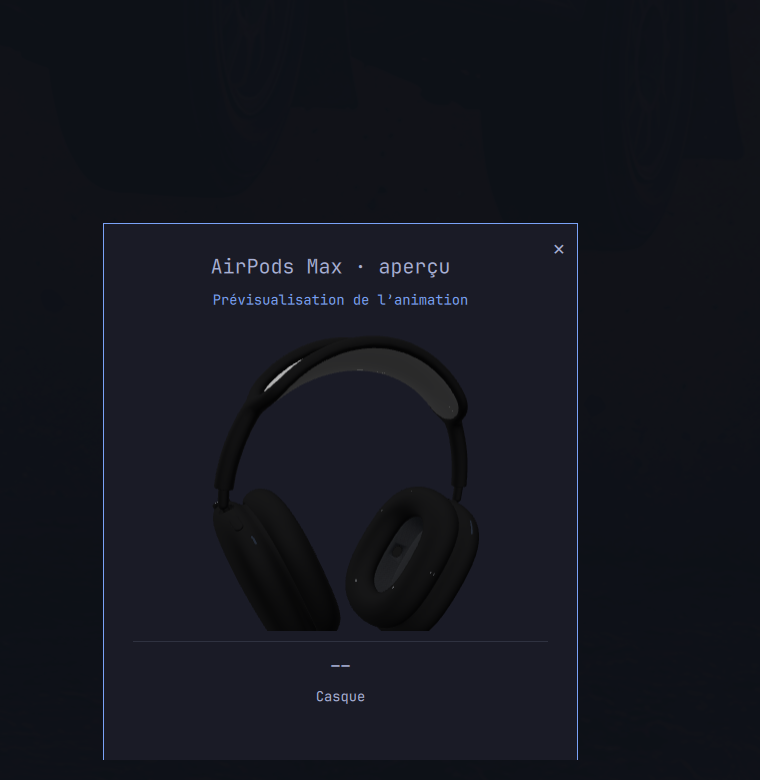
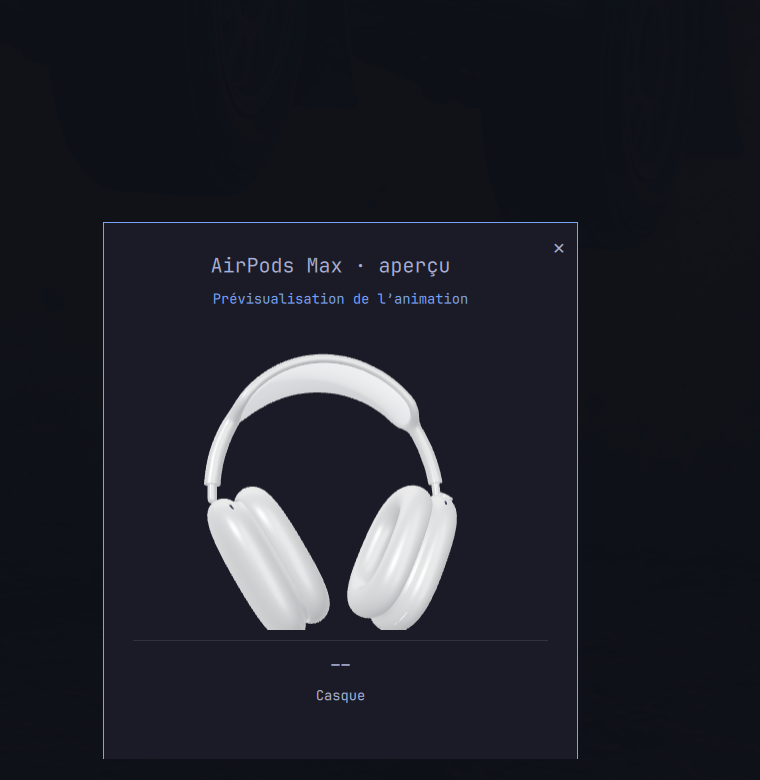
feat: add white AirPods Max finish

diff --git a/assets/airpods-max/Air_pods_max_animated.qml b/assets/airpods-max/Air_pods_max_animated.qml
@@ -68,9 +68,9 @@ Node {
     PrincipledMaterial {
         id: dpauuenuPBdCvhC_material
         objectName: "DpauuenuPBdCvhC"
-        baseColor: "#ff000000"
-        roughness: 1
-        emissiveFactor: Qt.vector3d(0.0279413, 0.0279413, 0.0279413)
+        baseColor: "#ffd5d9de"
+        roughness: 0.82
+        emissiveFactor: Qt.vector3d(0.04, 0.04, 0.04)
         cullMode: PrincipledMaterial.NoCulling
         alphaMode: PrincipledMaterial.Opaque
     }
@@ -115,8 +115,8 @@ Node {
     PrincipledMaterial {
         id: lreQKsjeIoeplRB_material
         objectName: "LReQKsjeIoeplRB"
-        baseColor: "#ff000000"
-        roughness: 0.8999999761581421
+        baseColor: "#ffd9dde1"
+        roughness: 0.9
         cullMode: PrincipledMaterial.NoCulling
         alphaMode: PrincipledMaterial.Opaque
     }
@@ -133,39 +133,36 @@ Node {
     PrincipledMaterial {
         id: rs_Material_material
         objectName: "RS_Material"
-        baseColor: "#ff000000"
-        roughness: 1
+        baseColor: "#ffe8ebee"
+        metalness: 0.58
+        roughness: 0.34
         cullMode: PrincipledMaterial.NoCulling
         alphaMode: PrincipledMaterial.Opaque
     }
     PrincipledMaterial {
         id: diaLtZsVVXWBwMe_material
         objectName: "DiaLtZsVVXWBwMe"
-        baseColorMap: _4_texture
-        metalnessMap: _5_texture
-        roughnessMap: _5_texture
-        metalness: 1
-        roughness: 1
-        emissiveMap: _6_texture
-        emissiveFactor: Qt.vector3d(1, 1, 1)
+        baseColor: "#fff2f4f5"
+        metalness: 0.72
+        roughness: 0.27
         cullMode: PrincipledMaterial.NoCulling
         alphaMode: PrincipledMaterial.Opaque
     }
     PrincipledMaterial {
         id: deFxnmzQHJkzqmx_material
         objectName: "DeFxnmzQHJkzqmx"
-        baseColor: "#ff000000"
-        roughness: 1
-        emissiveFactor: Qt.vector3d(0.294964, 0.294964, 0.294964)
+        baseColor: "#ffcfd4d9"
+        roughness: 0.78
+        emissiveFactor: Qt.vector3d(0.04, 0.04, 0.04)
         cullMode: PrincipledMaterial.NoCulling
         alphaMode: PrincipledMaterial.Opaque
     }
     PrincipledMaterial {
         id: cufifJQVFGKEXjK_material
         objectName: "CufifJQVFGKEXjK"
-        baseColor: "#ffc7dded"
-        metalness: 1
-        roughness: 0.5243171453475952
+        baseColor: "#ffe4e8eb"
+        metalness: 0.75
+        roughness: 0.32
         cullMode: PrincipledMaterial.NoCulling
         alphaMode: PrincipledMaterial.Opaque
     }

diff --git a/README.md b/README.md
@@ -16,8 +16,9 @@
 
 A temporary native Qt Quick 3D card appears on connection, with the current
 Omarchy theme and real battery values. AirPods Pro use the optimized model:
-the lid opens, the earbuds rise, then the assembly turns once. AirPods Max rise
-into place while their earcups move outward, then the headset turns once. Other
+the lid opens, the earbuds rise, then the assembly turns once. AirPods Max use
+a white and silver finish, rise into place while their earcups move outward,
+then the headset turns once. Other
 AirPods use their existing icon. Unknown battery values remain unknown. Closing
 the card unloads the 3D scene. Requires `qt6-quick3d` and `qt6-quicktimeline`,
 installed by `setup`. Both derived models retain their separate CC BY 4.0

diff --git a/assets/airpods-max/ATTRIBUTION.md b/assets/airpods-max/ATTRIBUTION.md
@@ -10,7 +10,8 @@ plugin code license. No endorsement by the original author is implied.
 
 Modifications on 2026-09-14: unused scene objects removed, geometry simplified,
 textures resized to at most 512 pixels and encoded as WebP, animated earcup
-placement and presentation rotation. Converted to Qt Quick 3D assets using Qt
+placement and presentation rotation, and materials recolored to a white and
+silver finish. Converted to Qt Quick 3D assets using Qt
 6 balsam. Added an external animationFrame property and removed the generated
 infinite TimelineAnimation so the connection card controls playback.
 
